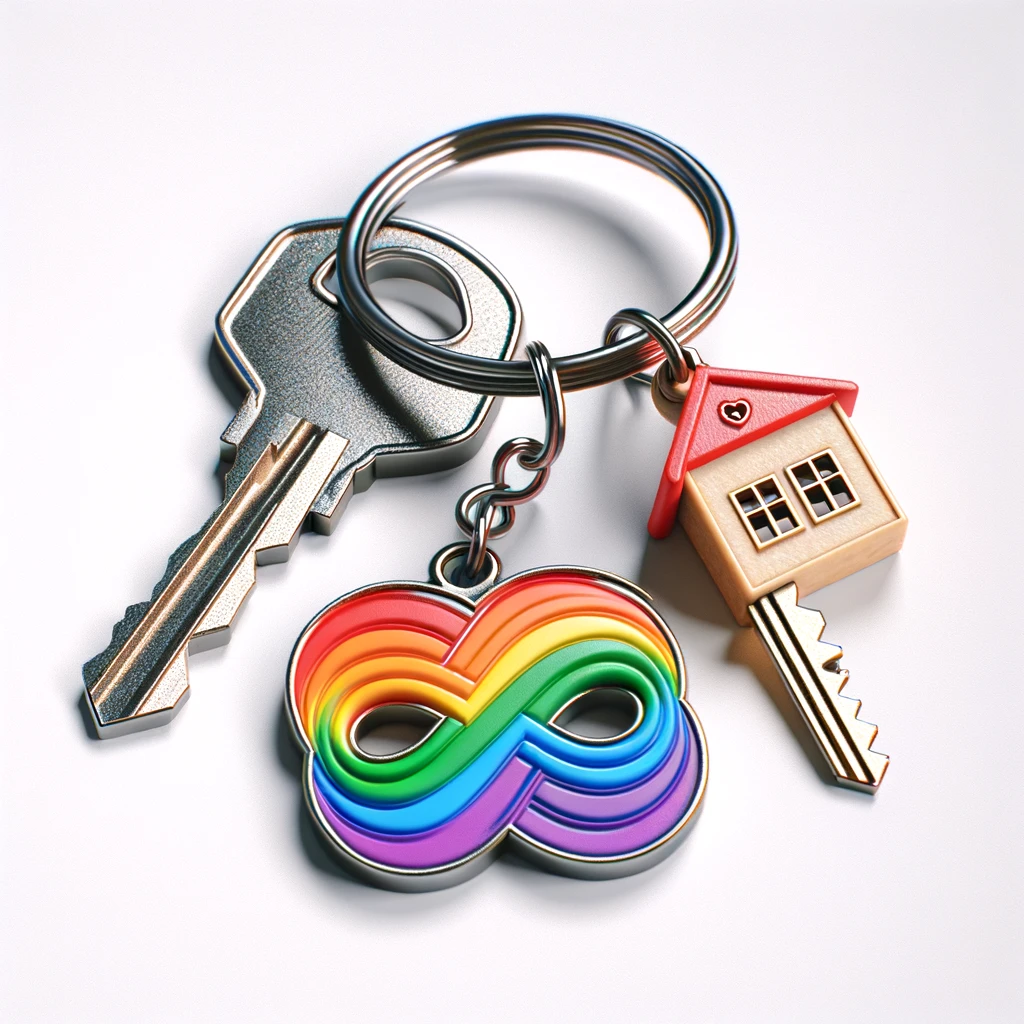
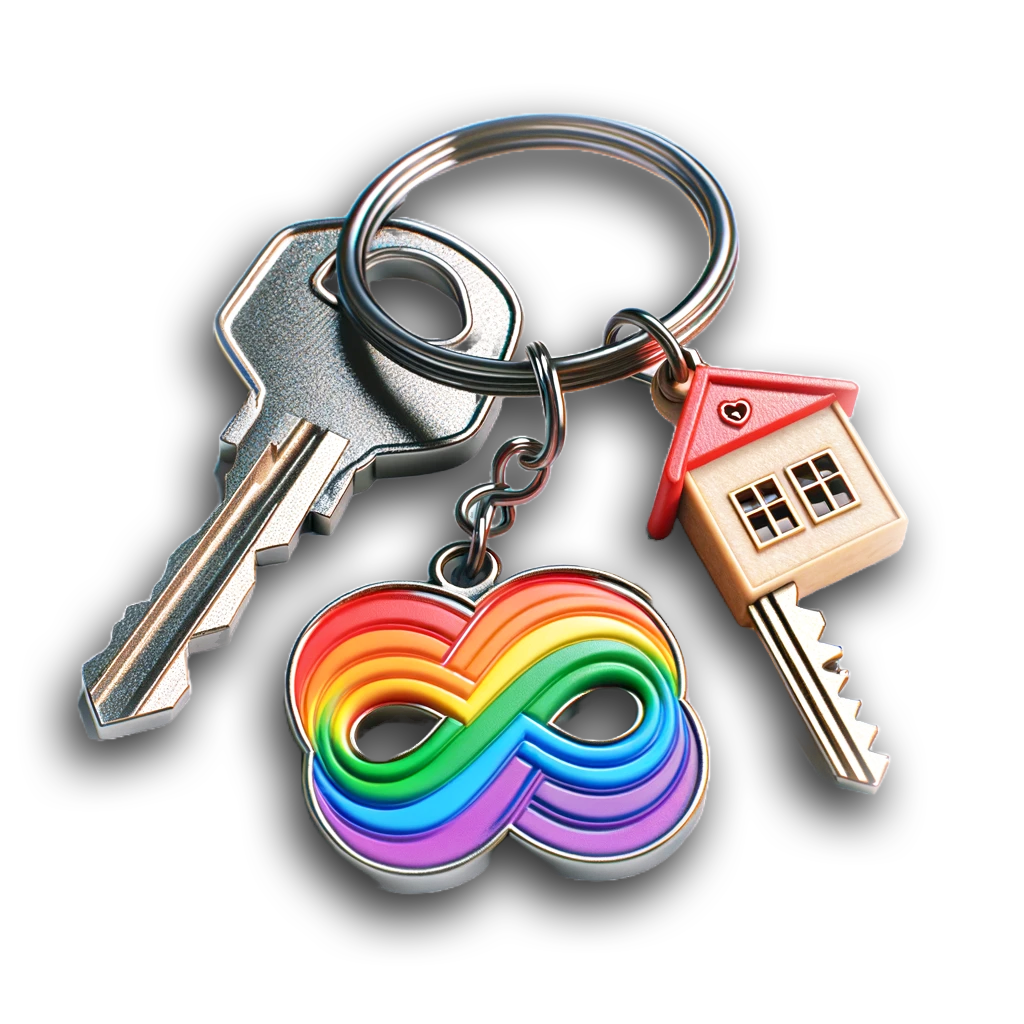
Change font and add new image for main content

diff --git a/index.html b/index.html
@@ -58,21 +58,19 @@
     
 
 
-<main class="container my-5 ">
+<main class="container-fluid">
     <section id="home" class="row align-items-center text-center my-5">
         <div class="col-md-6 text-md-left">
-            <h1>Welcome to UNESTU</h1>
-            <p class="lead">Dedicated to providing housing and support for individuals discriminated against due to their neurodiverse conditions.</p>
-            <p>At UNESTU, a registered Community Interest Company (CIC), we are deeply committed to fostering inclusive environments where neurodiverse individuals can thrive. Our initiatives are designed not just to offer support but to actively champion the rights and dignity of every person in our community.</p>
-            <p>Through our housing programs and awareness events, we strive to break down barriers, promote understanding, and create opportunities for meaningful participation in society. Join us in our mission to celebrate diversity, inclusion, and the positive contributions of the neurodiverse community to our world.</p>
-            <div class="button-container my-4">
+            <h1 class="text-center">Let's build a community where every individual, regardless of their neurodiverse conditions, finds not just shelter, but warmth and understanding.</h1>
+            <p class="text-center">People with neurodiverse conditions often face discrimination in housing due to misconceptions and lack of accommodation. By promoting awareness, fostering inclusive practices, and advocating for legislative protections, we aim to create equitable housing opportunities for all.</p>
+            <div class="button-container text-center my-5">
                 <div class="custom-button help" onclick="location.href='#';"><i class="fas fa-hand-holding-heart"></i> GIVE HELP</div>
                 <div class="custom-button need" onclick="location.href='#';"><i class="fas fa-hands-helping"></i> GET HELP</div>
             </div>
         </div>
         <div class="col-md-6">
-            <div class="image-container">
-                <img src="assets/media/img/keyring.png" alt="Keyring with a house, and a puzzle piece" class="rounded-circle img-fluid">
+            <div class="hero-image-container">
+                <img src="assets/media/img/keyring.png" alt="Keyring with a house, and a puzzle piece" height="450">
             </div>
         </div>
     </section>

diff --git a/assets/css/styles.css b/assets/css/styles.css
@@ -1,11 +1,12 @@
 @import url('https://fonts.googleapis.com/css2?family=Didact+Gothic&display=swap');
 @import url('https://fonts.googleapis.com/css2?family=Bebas+Neue&display=swap');
-
+@import url('https://fonts.googleapis.com/css2?family=Spectral+SC:ital,wght@0,200;0,300;0,400;0,500;0,600;0,700;0,800;1,200;1,300;1,400;1,500;1,600;1,700;1,800&display=swap')
 
 /* Using Didact Gothic for the body font */
 body {
     font-family: 'Didact Gothic', sans-serif;
 }
+
 
 .nav-item:not(:last-child) {
     border-right: 1px solid #000; /* Adds a border to all except the last item */
@@ -86,20 +87,24 @@ body {
     border: 0px solid #000000; /* Add black border */
 }
 
+
+
 #home {
-    background-color: #ededed; /* A serene, deep lavender color */
+    background-color: #ffffffd7; 
+    font-weight: 200;
+    font-style: normal;
     color: rgb(0, 0, 0);
-    padding: 50px 20px;
-    border-radius: 15px; /* Rounded borders for a modern look */
-    box-shadow: 0px 8px 15px rgba(0, 0, 0, 0.1); /* Subtle shadow for depth */
-    transition: all 0.3s ease-in-out;
+    padding: 20px 20px;
+}
+
+#home h1 {
+    font-family: "Spectral SC", serif;
+    font-weight: 200;
+    font-style: normal;
+    text-transform: uppercase;
 }
 
 
-.image-container img.rounded-circle {
-    height: 3%;
-    width: auto;
-}
 
 .custom-button {
     font-size: 1.25rem; /* Larger font size for readability */
@@ -162,12 +167,4 @@ body {
     width: 100%;
     z-index: 1000;
     font-size: 14px; /* Adjusted font size */
-}
-
-
-@media only screen and (max-width: 768px) {
-    .image-container img.rounded-circle {
-        height: 20rem;
-        width: auto;
-    }
 }
